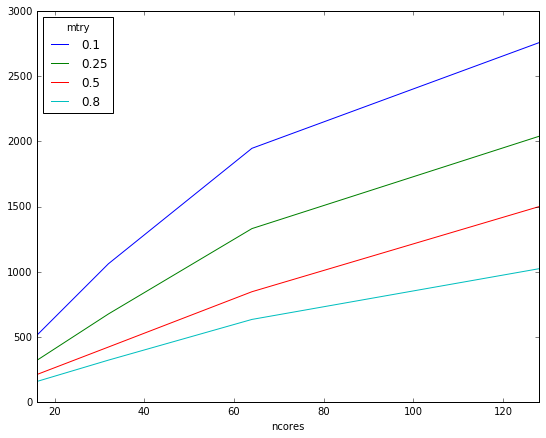
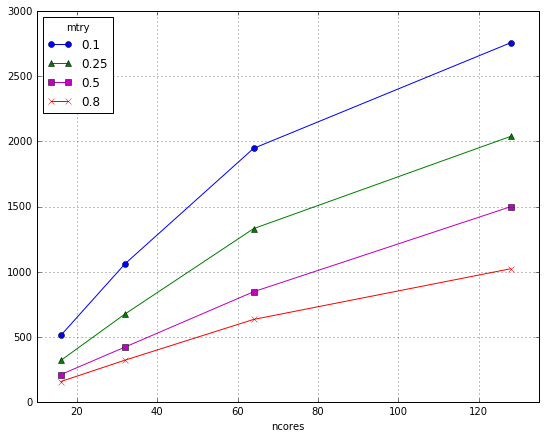
Preatifgied tables

diff --git a/doc/publications/plos16/plos16.tex b/doc/publications/plos16/plos16.tex
@@ -650,11 +650,11 @@ advice of \cite{Liaw.and.Weiner.2002}, which we have found mirrors our own exper
 \caption{
 {\bf Time in seconds to build random forest of 100
   trees on 128 CPU cores with varying numbers of variables and samples.}}
-\begin{tabular}{|l|l||l|l|l|l|l|}
+\begin{tabular}{|l|l|l|l|l|l|l|}
 \hline
-\multicolumn{2}{|l||}{\multirow{2}{*}{}}               & \multicolumn{5}{c|}{Number of variables}  \\
+\multicolumn{2}{|l|}{\multirow{2}{*}{}}               & \multicolumn{5}{c|}{Number of variables}  \\
 \cline{3-7}
-\multicolumn{2}{|l||}{}                                & \bf{150,000} & \bf{500,000} & \bf{2,500,000}  & \bf{10,000,000} & \bf{50,000,000} \\
+\multicolumn{2}{|l|}{}                                & \bf{150,000} & \bf{500,000} & \bf{2,500,000}  & \bf{10,000,000} & \bf{50,000,000} \\
 \hline                                                            
 \multirow{4}{*}{Number of samples}                          & \bf{1000} &  21.6 & 26.7 & 59.8 & 133.5 & 668.8 \\
                                                             & \bf{5000} & 45.7 & 71.9 & 186.2 & 729.3 & 2887.4 \\
@@ -667,6 +667,20 @@ advice of \cite{Liaw.and.Weiner.2002}, which we have found mirrors our own exper
 \end{table}
 
 
+\begin{figure}[tbhp]
+\begin{tabular}{ll}
+a)& b)\\
+\includegraphics[totalheight=6cm]{./figs/nsamples_nvars.png} & 
+\includegraphics[totalheight=6cm]{./figs/nvars_nsamples.png} \\
+\end{tabular}
+\captionof{figure}{{\bf Scalablity of the Wide Random Forest on synthetic datasets with varying number of samples and variables.} 
+   {\bf a)} Time in seconds to build 100 trees for differnet mtry fractions. 
+   {\bf b)} Number of trees build per hour when using a growing number of CPU cores.}
+\label{figure:synth}
+\end{figure}
+
+
+
 \begin{table}[!ht]
 \centering
 \caption{
@@ -674,12 +688,14 @@ advice of \cite{Liaw.and.Weiner.2002}, which we have found mirrors our own exper
   trees with specified mtry fraction using given number of CPU cores.}}
 \begin{tabular}{|l|l|l|l|l|l|}
 \hline
-\multicolumn{2}{|l|}{\multirow{2}{*}{}}                   & \multicolumn{4}{|c|}{Number of CPU cores}  \\
-                                                            &  & 16   & 32      & 64      & 128  \\
-\multirow{4}{*}{mtry (fraction)}                            & 0.10 & 708.3  & 340.0  & 186.0 & 134.5 \\
-                                                            & 0.25 & 1134.9 & 535.0  & 270.8 & 179.6 \\
-                                                            & 0.50 & 1724.1 & 856.6  & 428.7 & 243.8 \\
-                                                            & 0.80 & 2313.5 & 1125.7 & 569.1 & 364.6 \\
+\multicolumn{2}{|l|}{\multirow{2}{*}{}}                   & \multicolumn{4}{c|}{Number of CPU cores}  \\
+\cline{3-6}
+\multicolumn{2}{|l|}{}                                      & \bf{16}   & \bf{32}  & \bf{64}    & \bf{128} \\
+\hline
+\multirow{4}{*}{mtry (fraction)}                            & \bf{0.10} & 708.3  & 340.0  & 186.0 & 134.5 \\
+                                                            & \bf{0.25} & 1134.9 & 535.0  & 270.8 & 179.6 \\
+                                                            & \bf{0.50} & 1724.1 & 856.6  & 428.7 & 243.8 \\
+                                                            & \bf{0.80} & 2313.5 & 1125.7 & 569.1 & 364.6 \\
 
 \hline
 \end{tabular}
